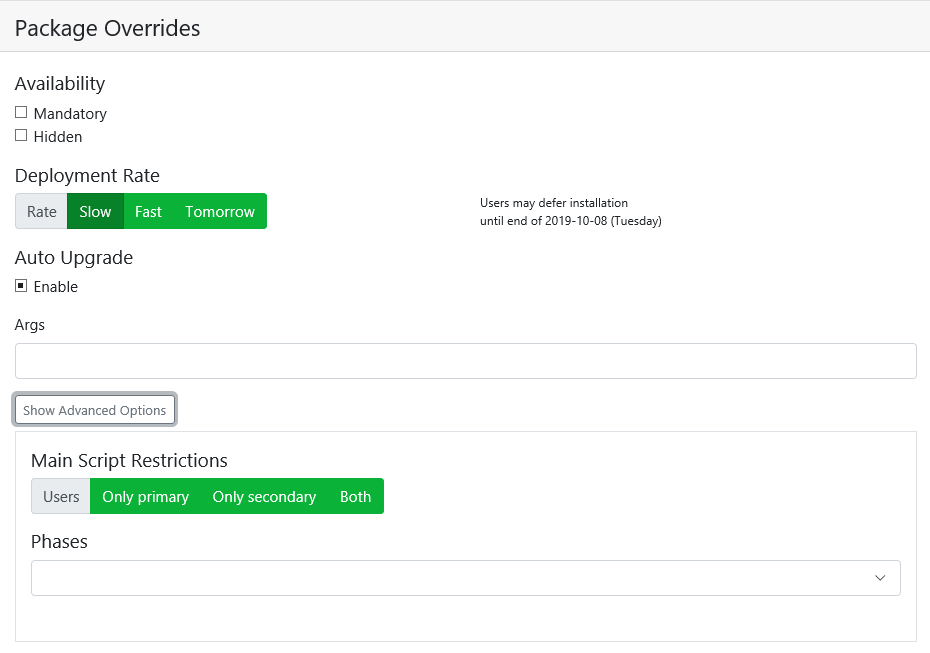
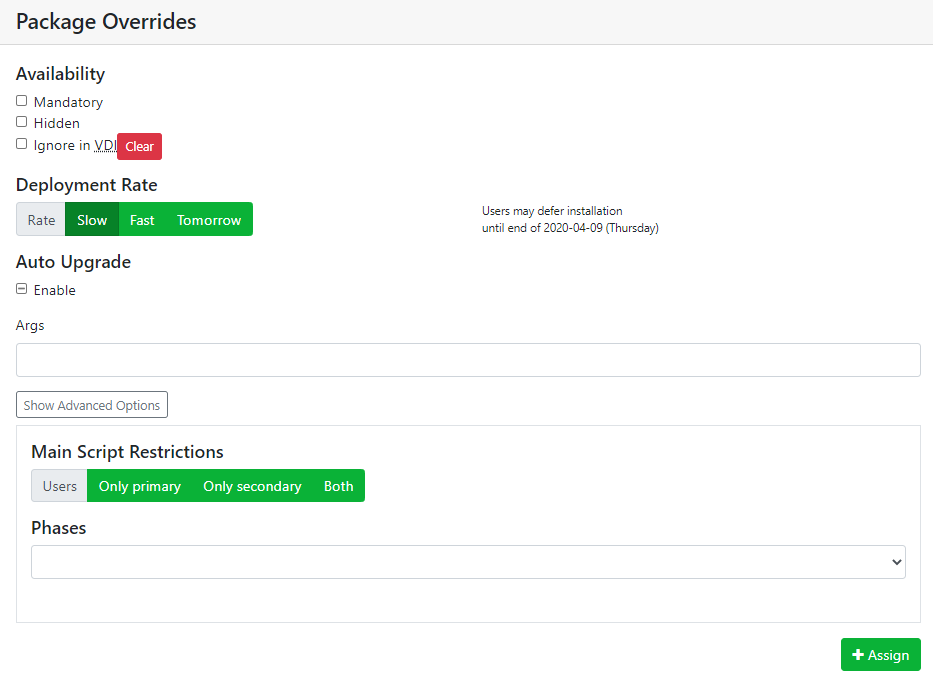
GitBook: [master] 50 pages and 4 assets modified

diff --git a/docs/rj-portal/software-packages.md b/docs/rj-portal/software-packages.md
@@ -28,7 +28,7 @@ If you click on a number in the **Gr** or **Us** fields, you will get a list of 
 
 #### Assign a Group / User
 
-Click on a group/user of your choice to assign. You can now make the following settings:
+Click on a group/user of your choice to assign. You can now configure the following settings:
 
 ![](../.gitbook/assets/package_assignment_1.png)
 
@@ -51,6 +51,9 @@ Click on a group/user of your choice to assign. You can now make the following s
           menu. This might be used for mandatory software or multiple level dependencies
           when the user should only be able to install the highest hierarchy and
           the underlying packages should be installed automatically.</p>
+        <p></p>
+        <p><b>Ignore in VDI</b>: If you select this setting, a package cannot be
+          executed during a &apos;Virtual Desktop Infrastructure&apos; (VDI) session.</p>
       </td>
     </tr>
     <tr>
@@ -84,9 +87,19 @@ Click on a group/user of your choice to assign. You can now make the following s
     <tr>
       <td style="text-align:left"><b>Main Script Restrictions - Phases</b>
       </td>
-      <td style="text-align:left">This option allows a RealmJoin administrator to define whether this package
-        should be run during the initial deployment of the device or throughout
-        other phases.</td>
+      <td style="text-align:left">
+        <p>This option allows a RealmJoin administrator to define whether this package
+          should be run during the initial deployment of the device or throughout
+          other phases.</p>
+        <p></p>
+        <p>RealmJoin offers the following phases:</p>
+        <p></p>
+        <p><b>Logon</b>: The package runs after the user has logged on.</p>
+        <p><b>Manual</b>: The package will run, when the user starts it via tray
+          menu.</p>
+        <p><b>Initial</b>: The package only runs during the deployment.</p>
+        <p><b>Normal</b>: Neither Logon, nor Manual, nor Initial. A background deployment.</p>
+      </td>
     </tr>
   </tbody>
 </table>
@@ -219,7 +232,11 @@ There are different input fields on this page. Have a look at the table below fo
             compliant. This might stop the rollout for some time. The installation
             of the package and therefore all other mandatory packages with higher-order
             numbers that are queued to be installed afterwards is resumed when the
-            client is compliant.</li>
+            client is compliant.
+            <br />
+          </li>
+          <li><b>Ignore in VDI</b>: If you select this setting, a package cannot be
+            executed during a &apos;Virtual Desktop Infrastructure&apos; (VDI) session.</li>
         </ul>
       </td>
     </tr>
@@ -448,7 +465,11 @@ There are different input fields on this page. Have a look at the table below fo
             compliant. This might stop the rollout for some time. The installation
             of the package and therefore all other mandatory packages with higher-order
             numbers that are queued to be installed afterwards is resumed when the
-            client is compliant.</li>
+            client is compliant.
+            <br />
+          </li>
+          <li><b>Ignore in VDI</b>: If you select this setting, a package cannot be
+            executed during a &apos;Virtual Desktop Infrastructure&apos; (VDI) session.</li>
         </ul>
       </td>
     </tr>

diff --git a/docs/rj-portal/users-and-user-settings.md b/docs/rj-portal/users-and-user-settings.md
@@ -52,9 +52,11 @@ The mentioned settings, which are assigned to users, can be checked and edited i
 
 The listed settings are based on the JSON file format. JSON is described in our [JSON - Short Overview article](../packages/json-backgrounder.md). Username shows you which user has which setting. If a setting is listed several times, this means that it is set for several users.
 
-Just click on a Key to edit it. An input mask opens:
+Just click on a Key to edit it. An input mask appears:
 
 ![](../.gitbook/assets/usersettings_input.png)
 
-To make changes, simply click one of the two fields. Once you have finished editing, click **Save** to apply the changes. If you want to delete this setting, click **Delete**.
+In this mask you can enter a **Key** and a **Value**. Additionally, below the value field, you can enable or disable 'Ignore in VDI'. If you enable it, a user setting cannot be executed during a 'Virtual Desktop Infrastructure' \(VDI\) session.
+
+Once your editing is complete, click **Save** to apply your changes. If you want to delete this setting, click **Delete**.
 

diff --git a/docs/rj-portal/groups-and-group-settings.md b/docs/rj-portal/groups-and-group-settings.md
@@ -71,7 +71,9 @@ Just click on a Key to edit it. An input mask opens:
 
 ![](../.gitbook/assets/groupssettings_input.png)
 
-To make changes, simply click one of the two fields. Once you have finished editing, click **Save** to apply the changes. If you want to delete this setting, click **Delete**.
+In this mask you can enter a **Key** and a **Value**. Additionally, below the value field, you can enable or disable 'Ignore in VDI'. If you enable it, a group setting cannot be executed during a 'Virtual Desktop Infrastructure' \(VDI\) session.
+
+Once your editing is complete, click **Save** to apply your changes. If you want to delete this setting, click **Delete**.
 
 To see a detailed Group Settings list, read our [Settings & Policies article](../outlook-signatures.md).
 
